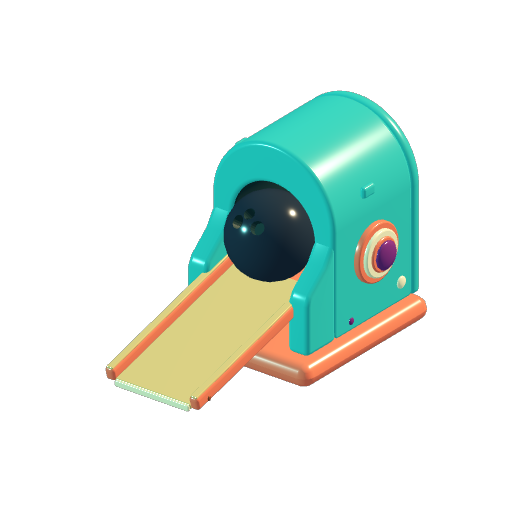
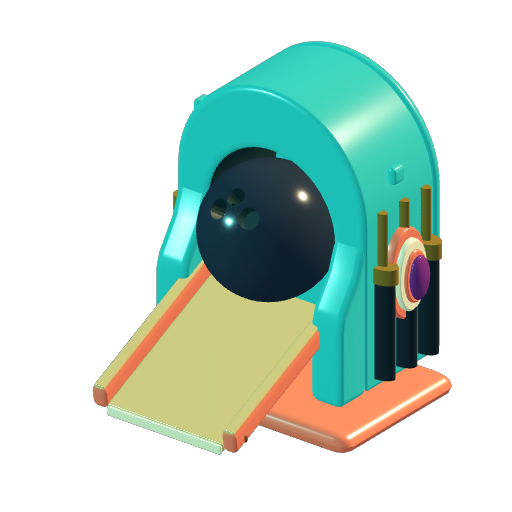
✨ Add heavy bowling cradles and animated bank-shot hardware

diff --git a/doc/plans/turret-expansion-progress.md b/doc/plans/turret-expansion-progress.md
@@ -85,3 +85,9 @@ Triangle counts: base 9,688; repeater forms 12,944 / 16,200 / 22,712; heavy form
 Wide Flame / Furnace Fan / Inferno Crown gain one / two / three additional burner pairs on a brass fuel manifold. Each open burner has a recessed bore and contributes a narrow flame stream; the outer streams track the 60 / 85 / 110 degree attack fan. Focused Jet / Dragon Nozzle / Dragonheart gain an increasingly long tapered pressure nozzle with cooling rings, and the flame origin moves to its actual exit. The original tank, hose, gauge and base remain the authored chassis. Added parts are runtime meshes with shared brass/teal/graphite materials. Cone damage and burn attribution remain one attack irrespective of emitter count.
 
 Updated all six portraits. Native close and default-zoom reviews show distinct fan/nozzle silhouettes and effects aligned with the new hardware. Targeted regression coverage checks burner counts, forward orientation, staged nozzle extension, single-hit damage and burn source. Other branches still need their visual evolution passes.
+
+### Bowling visual evolution
+
+Heavy Roller / Demolition Roller / Juggernaut widen and reinforce the authored return housing with one / two / three paired hydraulic braces. The loaded ball stays spherical as it grows; the muzzle height scales exactly with its projectile collision radius. Ramp and plinth widen to support the larger payload. Bank Shot / Pinball Engine / Ricochet King gain one / two / three bumper pairs on the ramp and a pair of brass launch paddles. The paddles kick on firing and settle after 0.22 seconds; Reduced Motion keeps them still. Collision and ricochet mechanics remain unchanged.
+
+All six portraits regenerated; dark-background comparison reviewed. Regression coverage checks spherical loaded balls, radius-to-launch-height agreement at all stages, staged hardware counts, mirrored paddle movement, settling and Reduced Motion.
